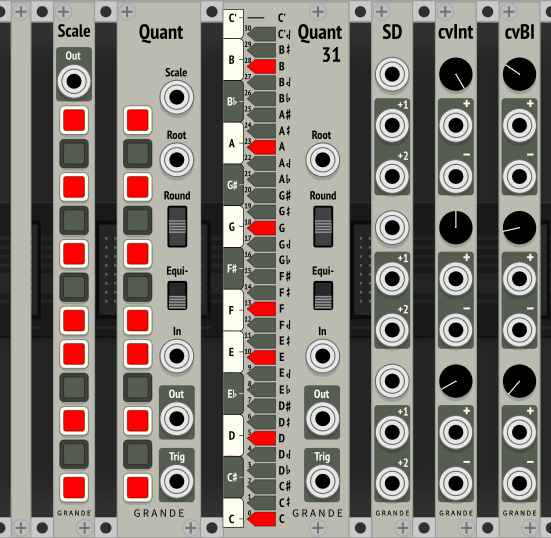
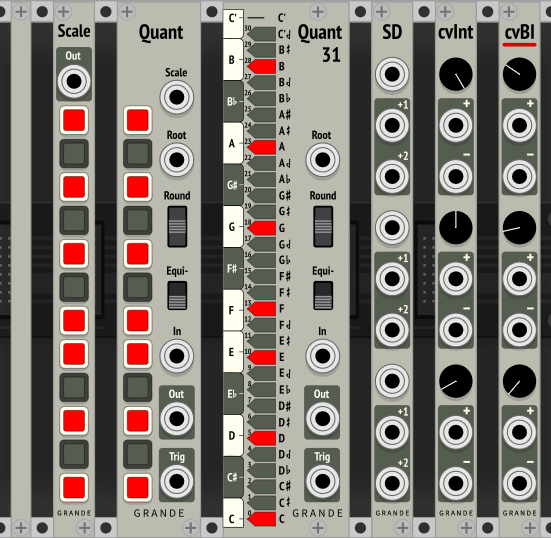
Update BigInts panel.

diff --git a/README.md b/README.md
@@ -23,6 +23,7 @@ Provides extra scales for Quant quantizer.
 
 ![Additional Scales](images/additional_scales.png "Additional Scales")
 
+
 Quant
 -----
 
@@ -56,6 +57,7 @@ For comparison, here is the Blues Scale using Equi-likely mode.
 
 **Note:** This equi-likely mode is best for random input frequencies. It may cause unexpected note shifting for inputs that are already more-or-less quantized.
 
+
 Quant31
 -------
 
@@ -71,16 +73,21 @@ Provides three sample-delay buffer chains giving one or two sample delays each.
 
 - Internally chained together to give up to six sample delays.
 
+
 CVInts (cvInt)
 -----------
 
 Provides 3 pairs of integer CVs from 0V to 10V (both + and –).
+
 
 CVBigInts (cvBI)
 -------------
 
 Provides 3 pairs of integer CVs from 0V to 32V (both + and –).
 
+***Exceeds normal voltage standards, so use with caution.***
+
+**New:** Added red underline to distinguish this plugin from CVInt.
 
 License
 -------
